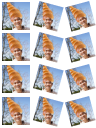
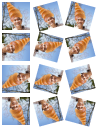
feat: Animation with direction of wepon

diff --git a/src/entities/Wepon.ts b/src/entities/Wepon.ts
@@ -3,6 +3,13 @@ import { ONE_TILE_SIZE } from "../constants";
 import { CharacterState, MoveDirs, TilePos } from "../types/game";
 import Map from "./Map";
 
+const WEPON_TEXTURE = {
+  walk_front: 0,
+  walk_left: 1,
+  walk_right: 2,
+  walk_back: 3,
+};
+
 export default class Wepon extends Sprite {
   private _moveDirs: MoveDirs;
   private _timer: Phaser.Time.TimerEvent;
@@ -93,7 +100,12 @@ export default class Wepon extends Sprite {
       newWeponTilePos.tx,
       newWeponTilePos.ty
     );
-    this._sprite = this.scene.add.sprite(weponPos.x, weponPos.y, "chocopan", 0);
+    this._sprite = this.scene.add.sprite(
+      weponPos.x,
+      weponPos.y,
+      "chocopan",
+      WEPON_TEXTURE[this._animState]
+    );
     this._sprite.setOrigin(0);
     this._sprite.setDisplaySize(ONE_TILE_SIZE, ONE_TILE_SIZE);
 

diff --git a/src/scenes/game.ts b/src/scenes/game.ts
@@ -26,7 +26,11 @@ export class Game extends Phaser.Scene {
 
   preload() {
     this.load.image("mapTiles", `./images/map_tile.png`);
-    this.load.image("chocopan", `./images/chocopan.png`);
+    // this.load.image("chocopan", `./images/chocopan.png`);
+    this.load.spritesheet("chocopan", `./images/chocopan.png`, {
+      frameWidth: SPRITE_FRAME_SIZE,
+      frameHeight: SPRITE_FRAME_SIZE,
+    });
     this.load.spritesheet("katopan", "./images/katopan.png", {
       frameWidth: SPRITE_FRAME_SIZE,
       frameHeight: SPRITE_FRAME_SIZE,

diff --git a/src/entities/Player.ts b/src/entities/Player.ts
@@ -34,7 +34,7 @@ export default class Player extends Sprite {
       if (scene.anims.create(this.animConfig(animation)) === false) continue; // もしfalseが戻って来ればこの後何もしない
     }
 
-    this._sprite.anims.play("walk_stop");
+    this._sprite.anims.play("walk_front");
   }
 
   /*
